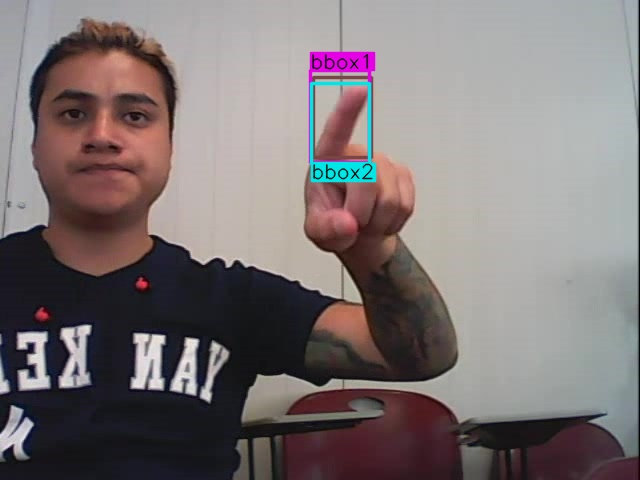
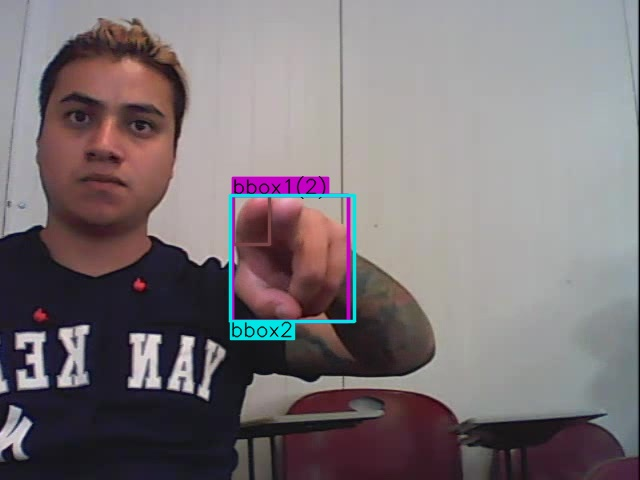
green_chosen

diff --git a/box_selectc.py b/box_selectc.py
@@ -451,7 +451,7 @@ class UI(QMainWindow):
 		img_ = os.path.join(self.img_path, os.path.basename(txt_).replace(self.ext, '.jpg'))
 		if os.path.exists(txt_path):
 			txt_l = self.read_txt(txt_path)
-			self.plotter2(txt_l , True, idx=-1, img_path=img_, label_="chosen")
+			self.plotter2(txt_l , True, idx=-1, img_path=img_)
 			self.label_msg.setText("{} BBOX Chosen".format(len(txt_l)))
 			self.buttonDelete.setVisible(True)
 			self.set_idc(1)
@@ -580,7 +580,7 @@ class UI(QMainWindow):
 			else:
 				self.next_(True)
 
-	def plotter2(self, txt_, tdown=False, idx=-1, img_path="temp_img.jpg", label_="chosen"): 
+	def plotter2(self, txt_, tdown=False, idx=-1, img_path="temp_img.jpg", label_=None): 
 		self.sp_H1.setVisible(False)
 		self.sp_H2.setVisible(False)
 		self.sp_W1.setVisible(False)

diff --git a/utils.py b/utils.py
@@ -83,8 +83,8 @@ def draw_boxes(image_path, txt_file, color_, label_=None, img_temp=True, image=N
         return image
 
 def draw_change_boxes(txt_file, index_=None, value_=0, xml_in=True):
-    label_ = "changing"
-    color_ = [203, 203, 255]
+    label_ = None
+    color_ = [20, 255, 60]
     image = cv2.imread("temp_img2.jpg")
 
     if xml_in:
